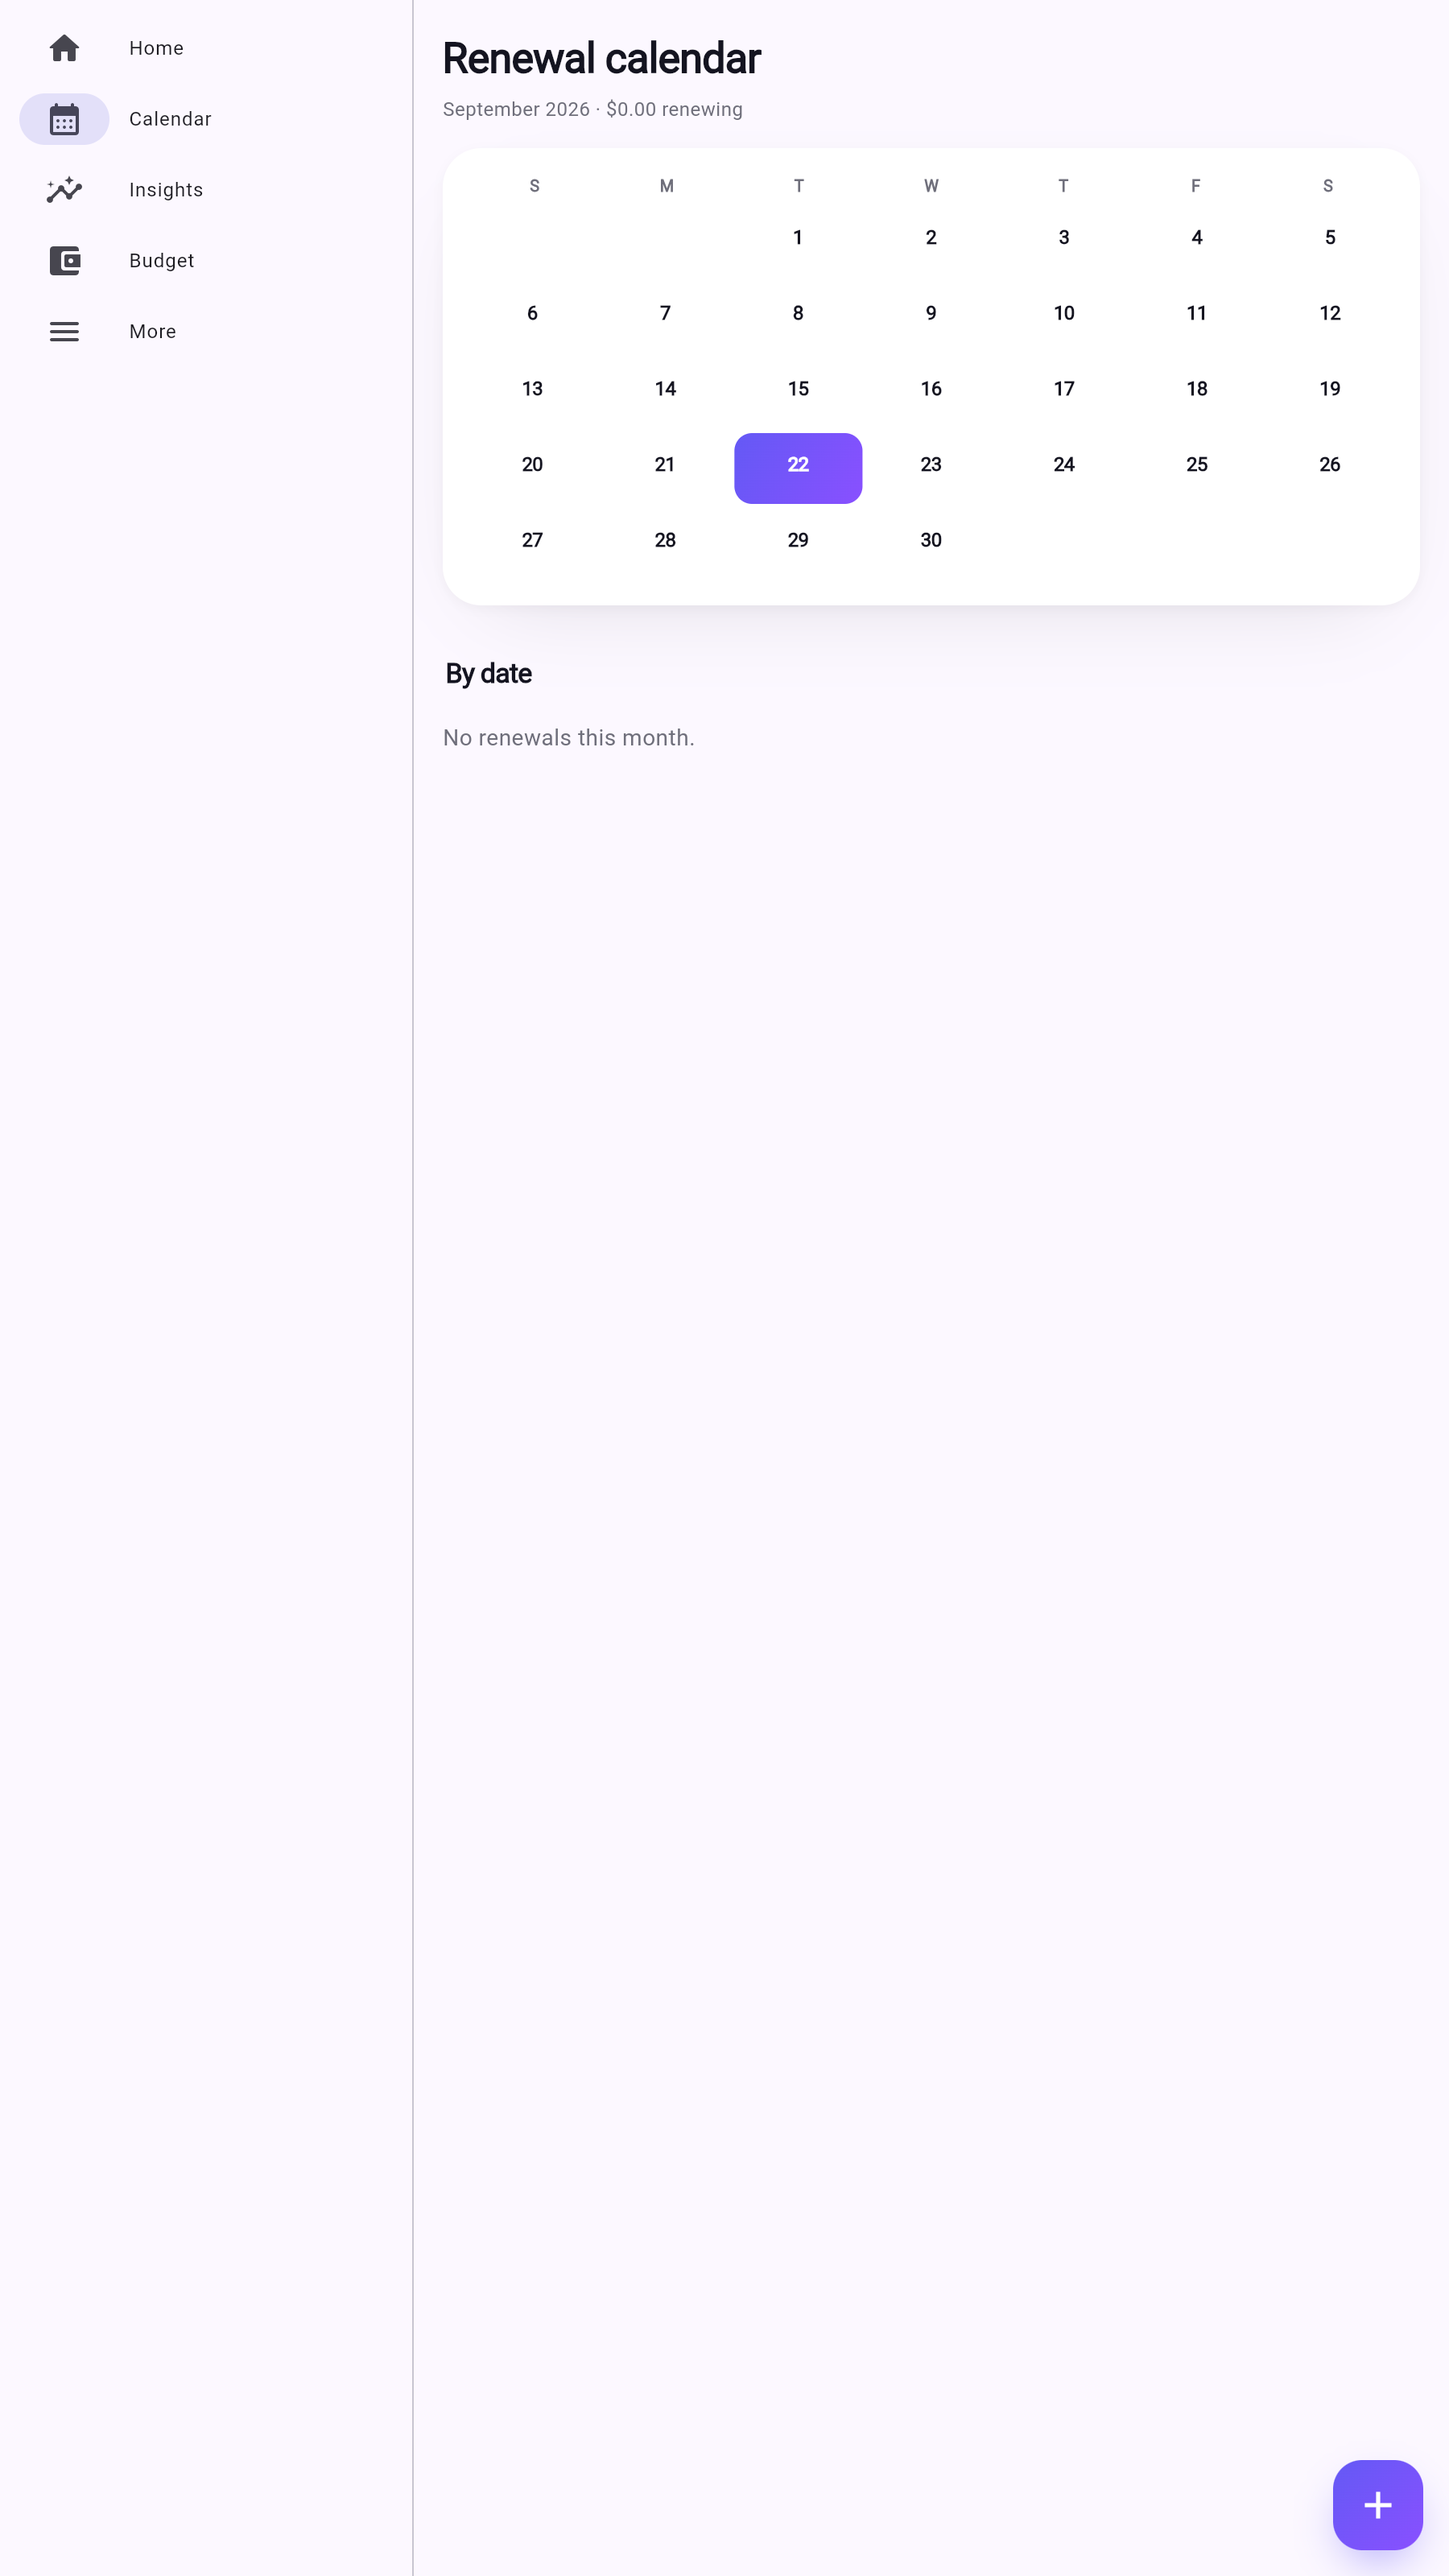
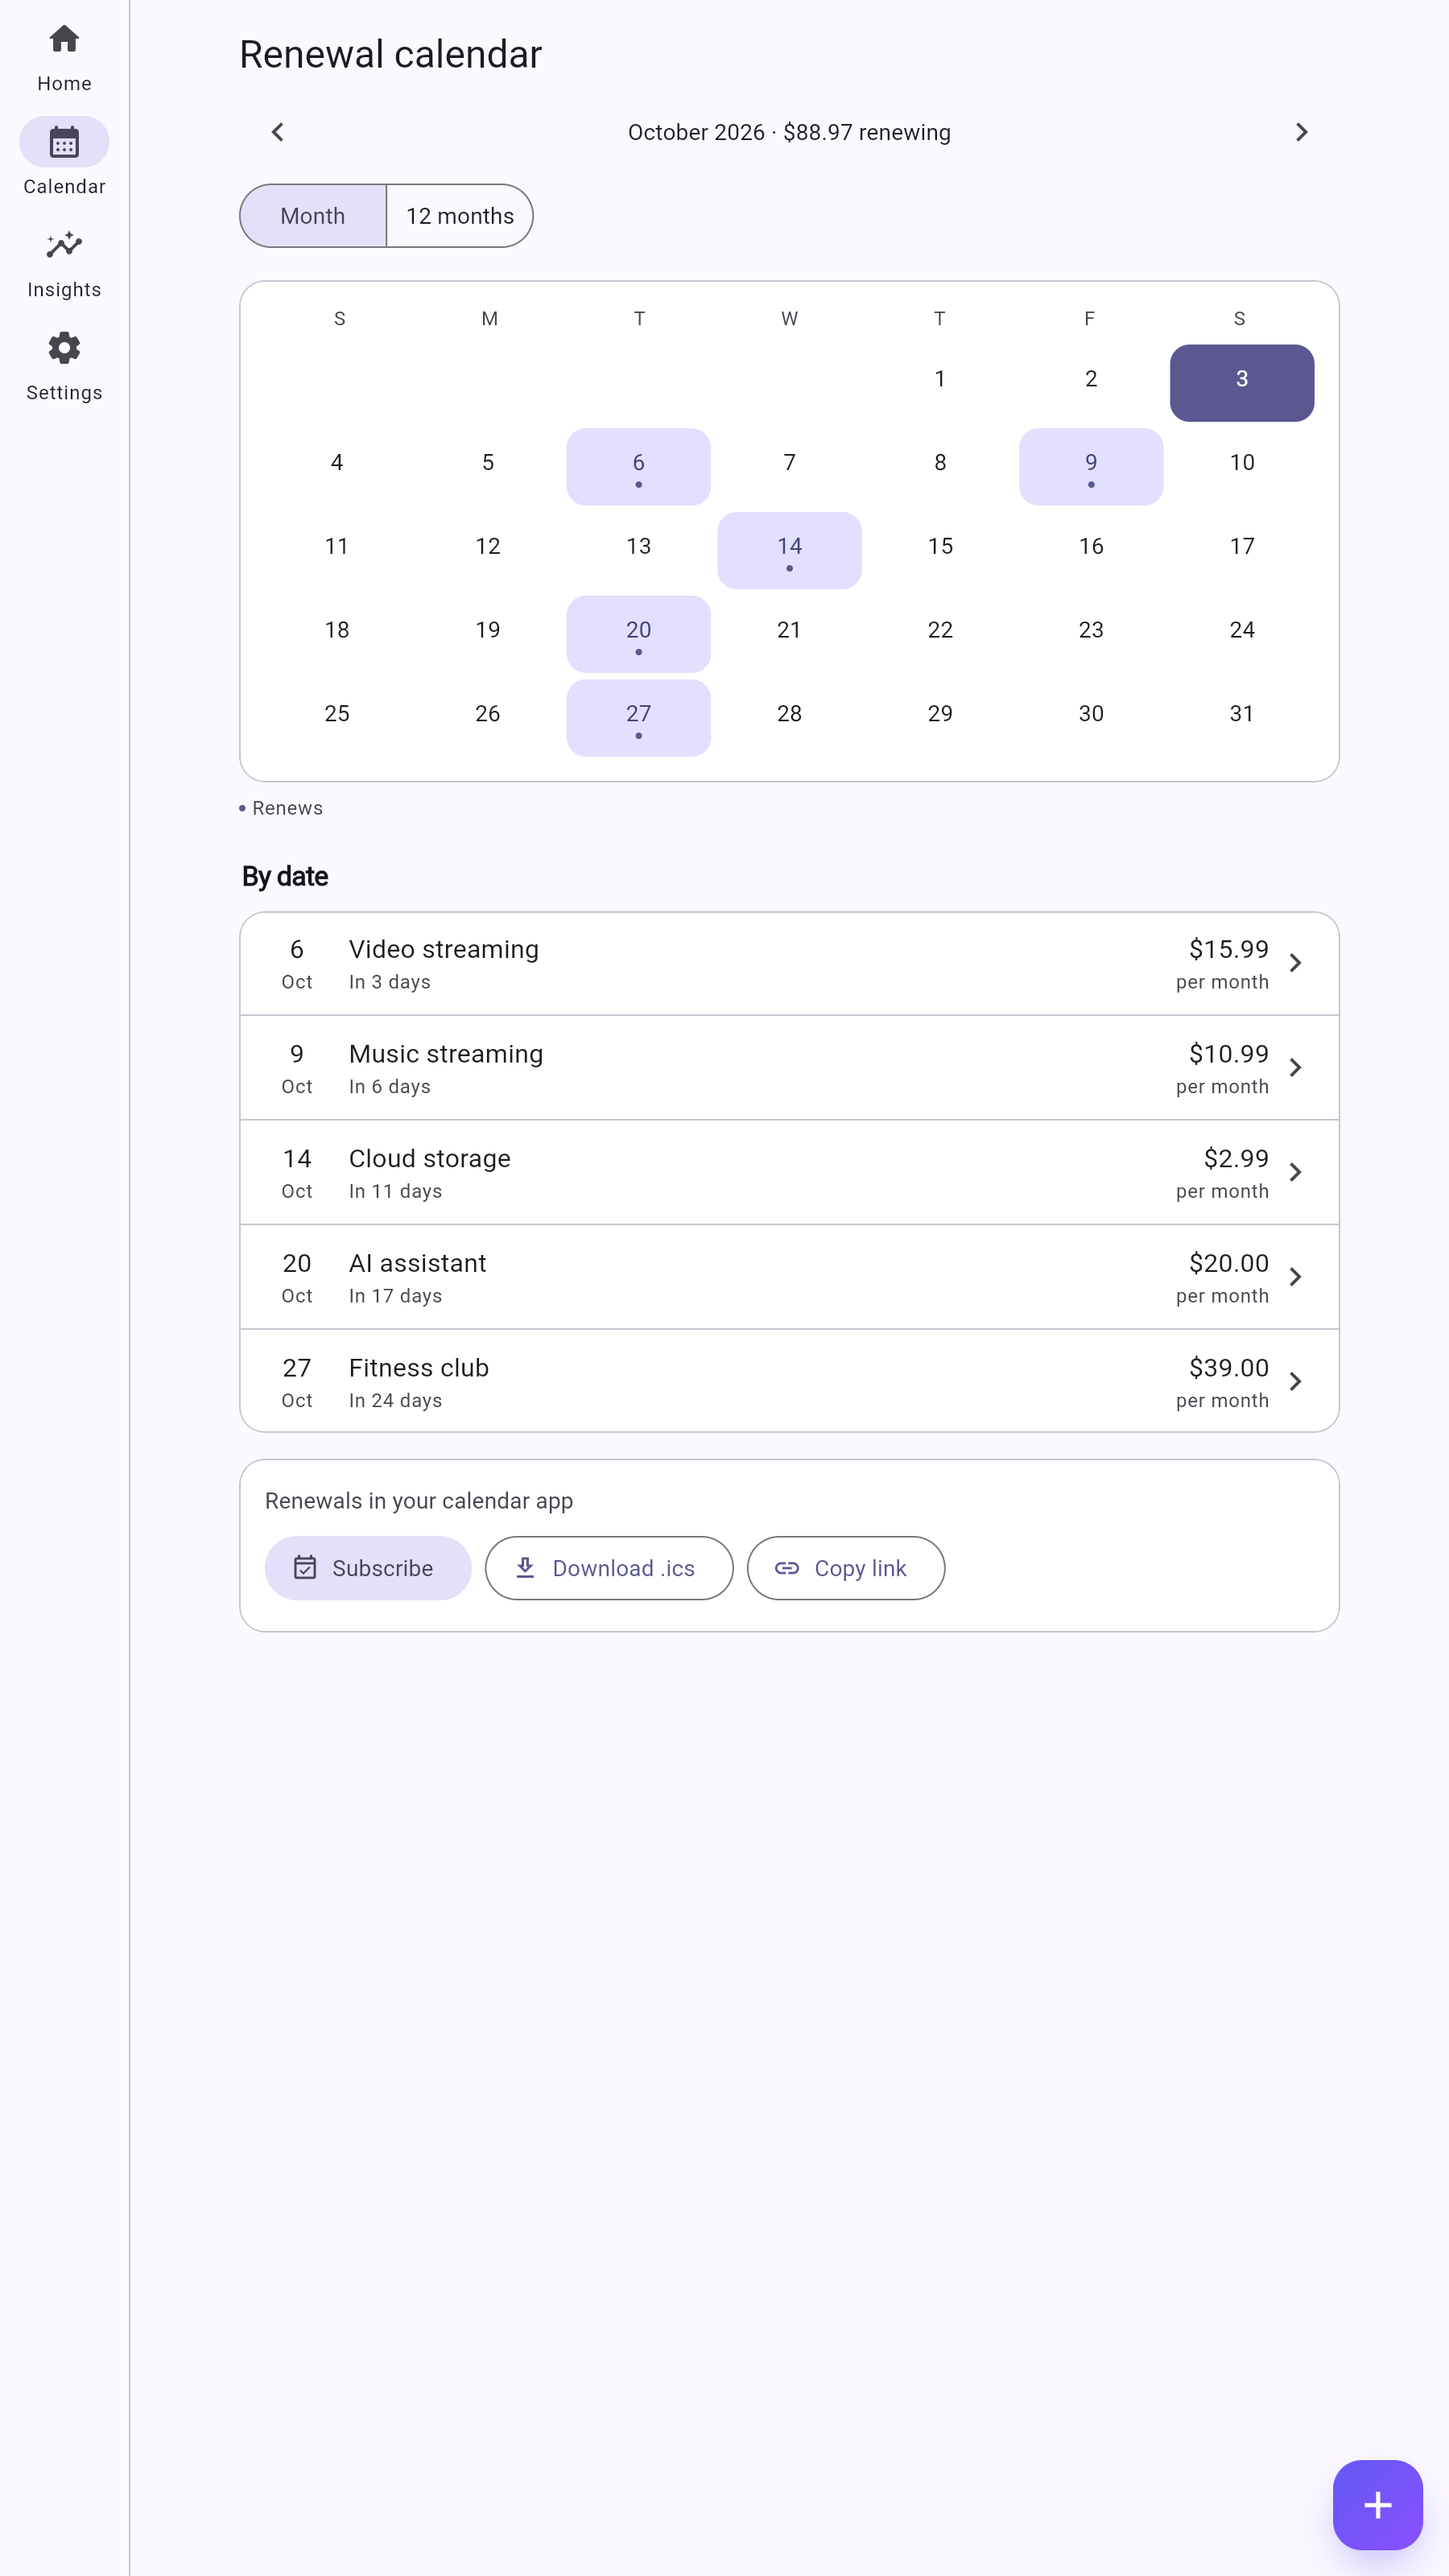
chore(play): the re-captured Play phone and tablet sets, with the apps.gov.in set and the site copies derived from them
The unmodified dry-run artifact of store-screenshots run 37123252150
(capturedSha 53536add8, this branch merged with main): four phone frames at
1080x1920 and four tablet frames at 1800x3200 with their CAPTURE.json; the
four nikatru.com copies cut by the same run (-v3, replacing -v2, per
tooling/site-shots.json) with the record and the page it re-rendered. The
apps.gov.in set was re-derived locally by finish-capture.mjs. Local:
assert-listing-assets --for-submission --channel android-play, assert-
derived-sets, derive-site-shots --check and check-site-integrity exit 0.
Look at the images in Files changed before merging.

diff --git a/sites/nikatru/apps/subscriptiontracker.html b/sites/nikatru/apps/subscriptiontracker.html
@@ -261,10 +261,10 @@
     <div class="wrap">
       <h2>Screenshots</h2>
       <div class="shots">
-        <img src="/apps/shots/subscriptiontracker-1-v2.webp" width="540" height="960" loading="lazy" decoding="async" alt="Nikatru Subscription Tracker &mdash; home">
-        <img src="/apps/shots/subscriptiontracker-2-v2.webp" width="540" height="960" loading="lazy" decoding="async" alt="Nikatru Subscription Tracker &mdash; calendar">
-        <img src="/apps/shots/subscriptiontracker-3-v2.webp" width="540" height="960" loading="lazy" decoding="async" alt="Nikatru Subscription Tracker &mdash; insights">
-        <img src="/apps/shots/subscriptiontracker-4-v2.webp" width="540" height="960" loading="lazy" decoding="async" alt="Nikatru Subscription Tracker &mdash; budget">
+        <img src="/apps/shots/subscriptiontracker-1-v3.webp" width="540" height="960" loading="lazy" decoding="async" alt="Nikatru Subscription Tracker &mdash; home">
+        <img src="/apps/shots/subscriptiontracker-2-v3.webp" width="540" height="960" loading="lazy" decoding="async" alt="Nikatru Subscription Tracker &mdash; calendar">
+        <img src="/apps/shots/subscriptiontracker-3-v3.webp" width="540" height="960" loading="lazy" decoding="async" alt="Nikatru Subscription Tracker &mdash; insights">
+        <img src="/apps/shots/subscriptiontracker-4-v3.webp" width="540" height="960" loading="lazy" decoding="async" alt="Nikatru Subscription Tracker &mdash; budget">
       </div>
     </div>
   </section>

diff --git a/apps/subscriptiontracker/store/android-play/screenshots/README.md b/apps/subscriptiontracker/store/android-play/screenshots/README.md
@@ -62,6 +62,8 @@ limit declared without a `source`: an invented limit fires on correct input.
 - **A proof capture** (`node tooling/store/capture-play-screenshots.mjs --proof`)
   writes to a temporary directory, never here.
 
-## ⏱ 2026-10-02 — not captured, and why
+## ⏱ 2026-10-03 — re-captured after the redesign trains
 
-Dispatched three times from branch `fix/store-screenshots-all-channels` (row O-STORE-SCREENSHOTS); the committed set predates the redesign trains (ST-D0..D10 and #1130) and its CAPTURE.json names no commit, so `node tooling/ci/assert-listing-assets.mjs --for-submission --channel android-play` refuses it. Two of the three runs (36952954410 and 36955795858) stopped at the preflight: the sandbox platform Worker answered `ok:false` with `supabase_jwks: probe_timeout`, and healthy a minute later. The other, 36953158433, stopped on the terms interstitial because the web drive served on a random localhost port the platform Worker refuses (fixed on this branch: `--web-port=3000`). The re-capture, and the apps.gov.in set derived from it, also wait on the seeding fix every native channel hit: since #1130 the add FAB opens the catalogue pick step, and the suite types into a name field behind it. No frame is made by hand in its place.
+The set and `../screenshots-tablet/` are the unmodified dry-run artifact of **Store screenshots** run 37123252150 (branch `release/play-screens-reviewers`, row O-STORE-SCREENSHOTS); `CAPTURE.json` records the commit it photographed. The apps.gov.in set was re-derived from it with `finish-capture.mjs`, and the nikatru.com copies by the same run (`tooling/sites/derive-site-shots.mjs`). Three suite fixes came first, each found by a dry run on that branch: the seeding walk takes the #1130 pick step ("Add by hand") and finds the category dropdown by key (runs 36955800549, 36955811141, 36955814987); the web-only catch-up nudge is answered and the round-trip reads the summary card (37116134381); frame 04 photographs the budget card in use instead of the editor sheet the fold check refused (37117009797).
+
+The 2026-10-02 attempts (36952954410, 36955795858 at the sandbox preflight; 36953158433 at the terms interstitial, fixed by `--web-port=3000`) are in `git log -- apps/subscriptiontracker/store/android-play/screenshots/README.md`.
